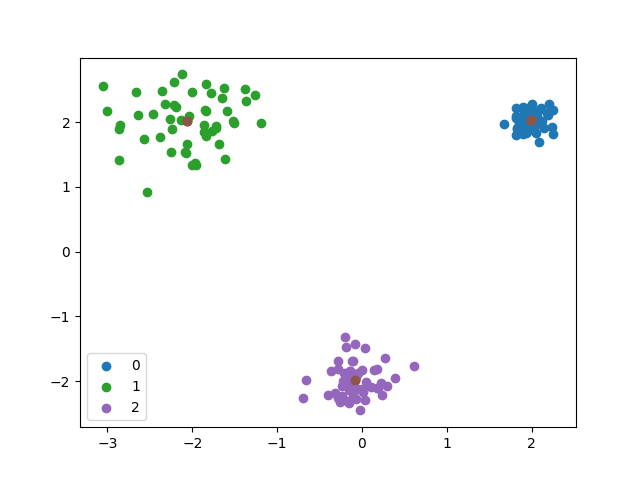
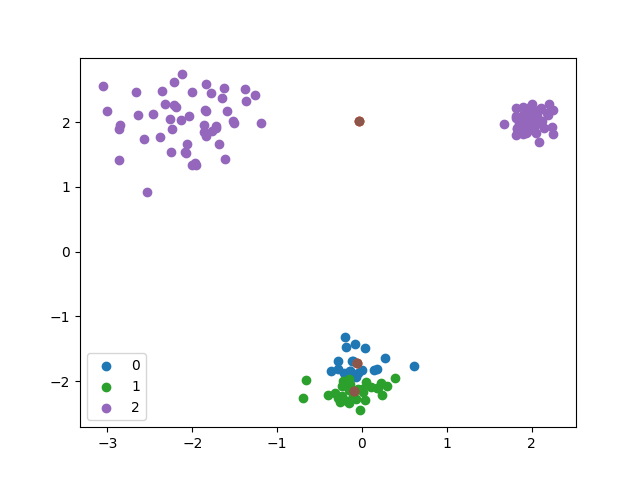
ignore dataset nan values

diff --git a/temporal_dietary_patterns/kmeans_clustering.py b/temporal_dietary_patterns/kmeans_clustering.py
@@ -1,6 +1,8 @@
 import numpy as np
 from numpy.random import rand
 
+__DEBUG__ = True
+
 def initKRandomCentroids(trainingSet, k):
     '''
     trainingSet: 'row' participants x 'col' hours (24)
@@ -13,15 +15,17 @@ def initKRandomCentroids(trainingSet, k):
     return initial_centroids
 
 def newCentroid(clusters, k, d):
-    # What to do if no data in a cluster?
     centroids = np.zeros((k,d))
-    for index, data in clusters.items():
+    emptyClusters = []
+    for index, data in enumerate(clusters):
         n = len(data)
-        mean = np.sum(data, axis=0) #/ n
-        print(n)
-        mean = mean / n
+        if n == 0:
+            emptyClusters.append(index)
+            continue
+        totalSum = np.sum(data, axis=0)
+        mean = totalSum / n
         centroids[index,:] = mean
-    return centroids
+    return centroids, emptyClusters
 
     
 # To do: change to dynamic time warping (DTW)
@@ -39,7 +43,7 @@ def getDistance(trainingSet, mean):
 
 def getObjective(clusters, centroids):
     objective = 0
-    for index, data in clusters.items():
+    for index, data in enumerate(clusters):
         diff_sq = np.square(data - centroids[index, :])
         objective += np.sum(diff_sq)
     return objective
@@ -61,7 +65,9 @@ def kmeans(data, k, max_iter):
     data = np.array(data)
     n, d = data.shape # number of participants, number of features
 
-    clusters = {} # cluster index : datasets for each cluster
+    clusters = [0] * k # cluster index : datasets for each cluster
+    clusters = np.array(clusters, dtype=object)
+
     centroids = initKRandomCentroids(data, k)
     objectives = []
     for i in range(max_iter):
@@ -75,6 +81,23 @@ def kmeans(data, k, max_iter):
         for j in range(k):
             indices = np.where(minDist == j)
             clusters[j] = data[indices]
-        centroids = newCentroid(clusters, k, d)
+
+        centroids, emptyClusters = newCentroid(clusters, k, d)
+
+        for j in range(len(emptyClusters)-1, -1, -1): # changes objective
+            k -= 1
+            index = emptyClusters[j]
+            clusters = np.delete(clusters, index, axis=0)
+            centroids = np.delete(centroids, index, axis=0)
+    
         objectives.append(getObjective(clusters, centroids))
+
+    if __DEBUG__:
+        print(k, " clusters")
+        print("Centroids:")
+        for mean in centroids:
+            print(mean)
+        for i, cluster_data in enumerate(clusters):
+            print(i, " : ", len(cluster_data))
+
     return centroids, clusters, objectives

diff --git a/temporal_dietary_patterns/parse_dataset.py b/temporal_dietary_patterns/parse_dataset.py
@@ -24,6 +24,9 @@ def parseDataset(fileName):
             seqn = int(row[INDIV_FOODS_SEQN_INDEX])
             time = int(math.floor(row[INDIV_FOODS_TIME_INDEX] / SEC_PER_HR))
             iron = row[INDIV_FOODS_IRON_INDEX]
+            if math.isnan(iron):
+                continue
+
             if seqn not in participants:
                 participants[seqn] = [0] * TOTAL_HOURS
                 participants[seqn][time] = iron
@@ -36,21 +39,21 @@ def parseDataset(fileName):
                     break
     return participants
 
-def plotIndivIronIntake(seqn, ironIntake, imgFileName):
+def plotIronIntake(title, ironIntake, imgFileName):
     '''
-    seqn: participant's unique number
+    title: participant's sequence number or centroid index
     ironIntake: [iron intake at ith hour] * 24
     imgFileName: name of output image file
     '''
 
     if __DEBUG__:
-        print("Plotting participant " + str(seqn) + "'s iron intake...")
+        print("Plotting " + title + "'s iron intake...")
     
     plt.xlim([0, TOTAL_HOURS])
     plt.xticks(range(TOTAL_HOURS), range(TOTAL_HOURS))
     plt.xlabel("Time (hours)")
     plt.ylabel("Iron Intake (mg)")
-    plt.title("Participant " + str(seqn))
+    plt.title(title)
     for hr, iron in enumerate(ironIntake):
         plt.bar(hr, iron)
     plt.savefig(imgFileName)

diff --git a/temporal_dietary_patterns/main.py b/temporal_dietary_patterns/main.py
@@ -1,19 +1,25 @@
 from parse_dataset import *
 from kmeans_clustering import *
 
-__PLOT__ = False
+__PLOT_INDIVIDUALS__ = False
+__PLOT_KMEANS__ = True
 
 K = 3
 MAX_ITERATIONS = 5
 
 participants = parseDataset('../../EC601/datasets/DR1IFF_J_2017_2018.XPT') # 2017 - 2018 First day
 allIronIntakes = list(participants.values())
-kmeans(allIronIntakes, K, MAX_ITERATIONS)
+centroids, clusters, objectives = kmeans(allIronIntakes, K, MAX_ITERATIONS)
 
-if __PLOT__:
+if __PLOT_INDIVIDUALS__:
     for seqn, ironIntake in participants.items():
         fileName = "./plots/" + str(seqn) + ".png"
-        plotIndivIronIntake(seqn, ironIntake, fileName)
+        plotIronIntake("Participant " + str(seqn), ironIntake, fileName)
+
+if __PLOT_KMEANS__:
+    for i, centroid in enumerate(centroids):
+        fileName = "./plots/centroid_" + str(i) + ".png" 
+        plotIronIntake("Centroid " + str(i), centroid, fileName)
     
 
 

diff --git a/temporal_dietary_patterns/test_kmeans.py b/temporal_dietary_patterns/test_kmeans.py
@@ -20,8 +20,8 @@ data_labels[2*n_per_cluster:] = 2
 # Apply k-means clustering to fake dataset
 centroids, clusters, obj_val = kmeans(data, 3, 5)
 plt.figure()
-for i in clusters:
-    plt.scatter(clusters[i][:,0], clusters[i][:,1], label=i)
+for i, cluster_data in enumerate(clusters):
+    plt.scatter(cluster_data[:,0], cluster_data[:,1], label=i)
     plt.scatter(centroids[:,0], centroids[:,1])
     plt.legend()
 plt.savefig("./plots/test_kmeans.png")
